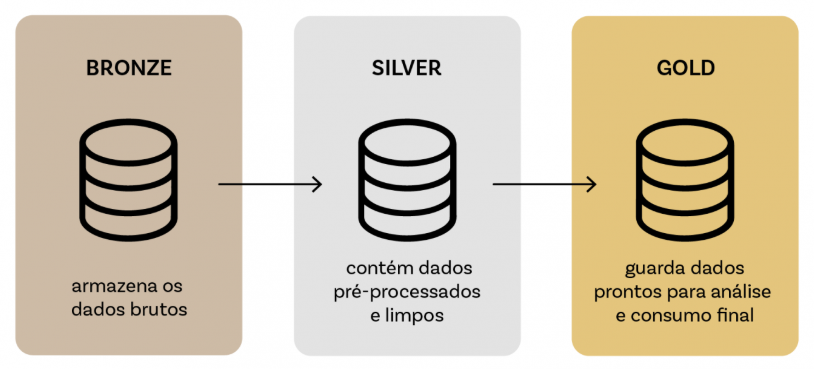
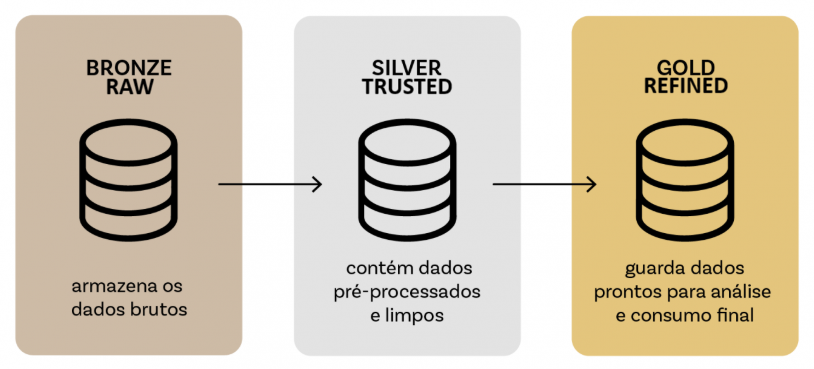
fix

Changed region(s): [[0.43, 0.2087, 0.5528, 0.2683], [0.7678, 0.2087, 0.8907, 0.2683], [0.1229, 0.2087, 0.215, 0.2683]]

diff --git a/02-Modeling_Architecture.md b/02-Modeling_Architecture.md
@@ -46,11 +46,13 @@ Modelo em que uma única tabela fato central se conecta diretamente a várias ta
 
 Modelo de dados em camadas que organiza o processamento e a qualidade dos dados em três níveis:
 
-- **Bronze**: dados brutos, tal como foram coletados.
-- **Silver**: dados limpos e estruturados.
-- **Gold**: dados prontos para análises e relatórios.
+- **Bronze/Raw**: dados brutos, tal como foram coletados.
+- **Silver/Trusted**: dados limpos e estruturados.
+- **Gold/Refined**: dados prontos para análises e relatórios.
 
 ![Medallion Architecture](image/medallion.png)
+
+- **Sandbox**: Ambiente para testes e exploração por analistas.
 
 **✅ Prós:**
 - Facilita o controle de qualidade dos dados por etapas.
